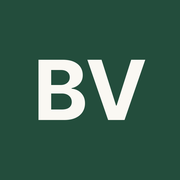
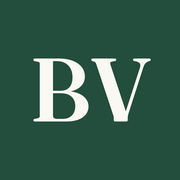
Ícono BV en Fraunces, agenda de Google embebible y avisos a consultas@

Changed region(s): [[0.4722, 0.3056, 0.8333, 0.6944], [0.1667, 0.3056, 0.5, 0.6944]]

diff --git a/index.html b/index.html
@@ -13,8 +13,8 @@
 <meta property="og:description" content="Revisemos cómo está organizado tu patrimonio. Consulta de una hora con Bernardo Vásquez, abogado especializado en fideicomisos.">
 <meta property="og:image" content="https://bernardovasquez.com.ar/assets/img/bernardo.jpg">
 <meta name="theme-color" content="#FAF8F3">
-<link rel="icon" type="image/png" href="/assets/favicon.png?v=2">
-<link rel="apple-touch-icon" href="/assets/apple-touch-icon.png?v=2">
+<link rel="icon" type="image/png" href="/assets/favicon.png?v=3">
+<link rel="apple-touch-icon" href="/assets/apple-touch-icon.png?v=3">
 <link rel="preload" href="/assets/fonts/intertight-var.woff2" as="font" type="font/woff2" crossorigin>
 <link rel="preload" href="/assets/fonts/satoshi-500.woff2" as="font" type="font/woff2" crossorigin>
 <link rel="stylesheet" href="/css/styles.css?v=5">
@@ -170,7 +170,7 @@ FORM: híbrido pedido por José: la piel del brief sobre la estructura que ya te
   <p>© 2026 Bernardo Vásquez Abogado · Fideicomisos de administración patrimonial</p>
 </footer>
 
-<script src="/js/config.js?v=3"></script>
+<script src="/js/config.js?v=4"></script>
 <script src="/js/main.js?v=4"></script>
 </body>
 </html>

diff --git a/js/gracias.js b/js/gracias.js
@@ -43,11 +43,15 @@
   if (estado === 'approved') {
     title.textContent = 'Listo, tu consulta está paga';
     var u = CFG.agendaUrl ? agendaUrl() : null;
-    if (u && /calendly\.com$/.test(u.hostname)) {
+    var google = u && u.hostname === 'calendar.google.com' && /\/appointments\//.test(u.pathname);
+    if (google) u.searchParams.set('gv', 'true'); // la versión embebible de la agenda de citas de Google
+    if (u && (google || /calendly\.com$/.test(u.hostname))) {
       text.textContent = 'Ahora elegí el día y el horario que te quede mejor.';
       action.hidden = true;
-      u.searchParams.set('embed_domain', location.hostname);
-      u.searchParams.set('embed_type', 'Inline');
+      if (!google) {
+        u.searchParams.set('embed_domain', location.hostname);
+        u.searchParams.set('embed_type', 'Inline');
+      }
       agenda.innerHTML = '<iframe title="Elegir día y horario" loading="lazy"></iframe>';
       agenda.firstChild.src = u.toString();
       agenda.hidden = false;

diff --git a/js/config.js b/js/config.js
@@ -1,6 +1,8 @@
 /* Datos que todavía pueden cambiar sin tocar el resto del código.
-   agendaUrl: link de reservas de Bernardo (Calendly u otro). Si es Calendly, la página de gracias
-              lo embebe y le pasa nombre, email y las tres respuestas.
+   agendaUrl: link de reservas de Bernardo. La agenda de citas de Google Calendar
+              (calendar.google.com/calendar/appointments/...) y Calendly se embeben en la página de gracias;
+              Calendly además recibe nombre, email y las tres respuestas. Otro link: botón "Elegir día y horario".
+              Horarios que pasó Bernardo (23/10): martes a jueves de 12 a 14 y de 15 a 17, viernes de 12 a 16.
    whatsapp:  número de Bernardo con código de país, solo dígitos (ej. 5492215551234). Se usa si no hay agenda.
    detalleConsulta: la línea que va debajo de la tarjeta (duración, modalidad y qué se lleva el cliente).
               La escribe Bernardo; mientras esté vacía no se muestra.

diff --git a/gracias.html b/gracias.html
@@ -6,8 +6,8 @@
 <title>Tu consulta · Bernardo Vásquez</title>
 <meta name="robots" content="noindex">
 <meta name="theme-color" content="#FAF8F3">
-<link rel="icon" type="image/png" href="/assets/favicon.png?v=2">
-<link rel="apple-touch-icon" href="/assets/apple-touch-icon.png?v=2">
+<link rel="icon" type="image/png" href="/assets/favicon.png?v=3">
+<link rel="apple-touch-icon" href="/assets/apple-touch-icon.png?v=3">
 <link rel="preload" href="/assets/fonts/intertight-var.woff2" as="font" type="font/woff2" crossorigin>
 <link rel="stylesheet" href="/css/styles.css?v=5">
 <script>document.documentElement.classList.add('js')</script>
@@ -31,7 +31,7 @@
   <p>© 2026 Bernardo Vásquez Abogado · Fideicomisos de administración patrimonial</p>
 </footer>
 
-<script src="/js/config.js?v=3"></script>
-<script src="/js/gracias.js?v=1"></script>
+<script src="/js/config.js?v=4"></script>
+<script src="/js/gracias.js?v=2"></script>
 </body>
 </html>
